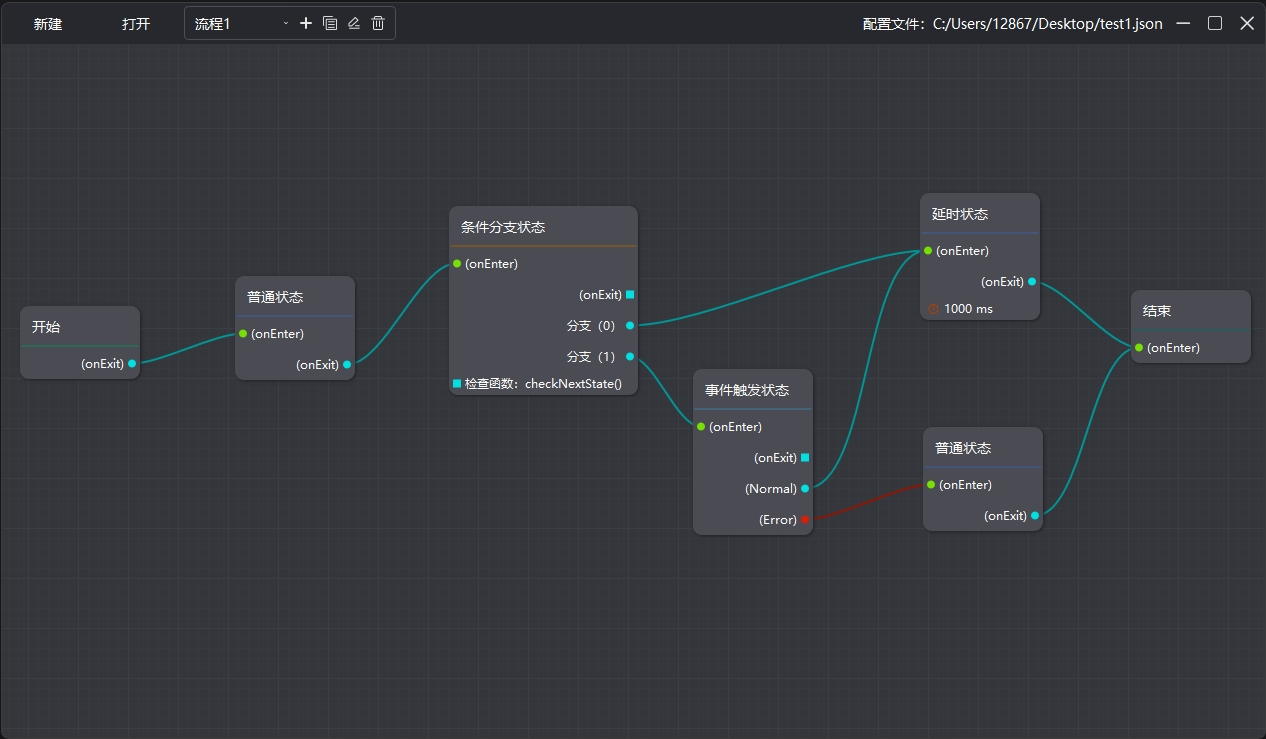
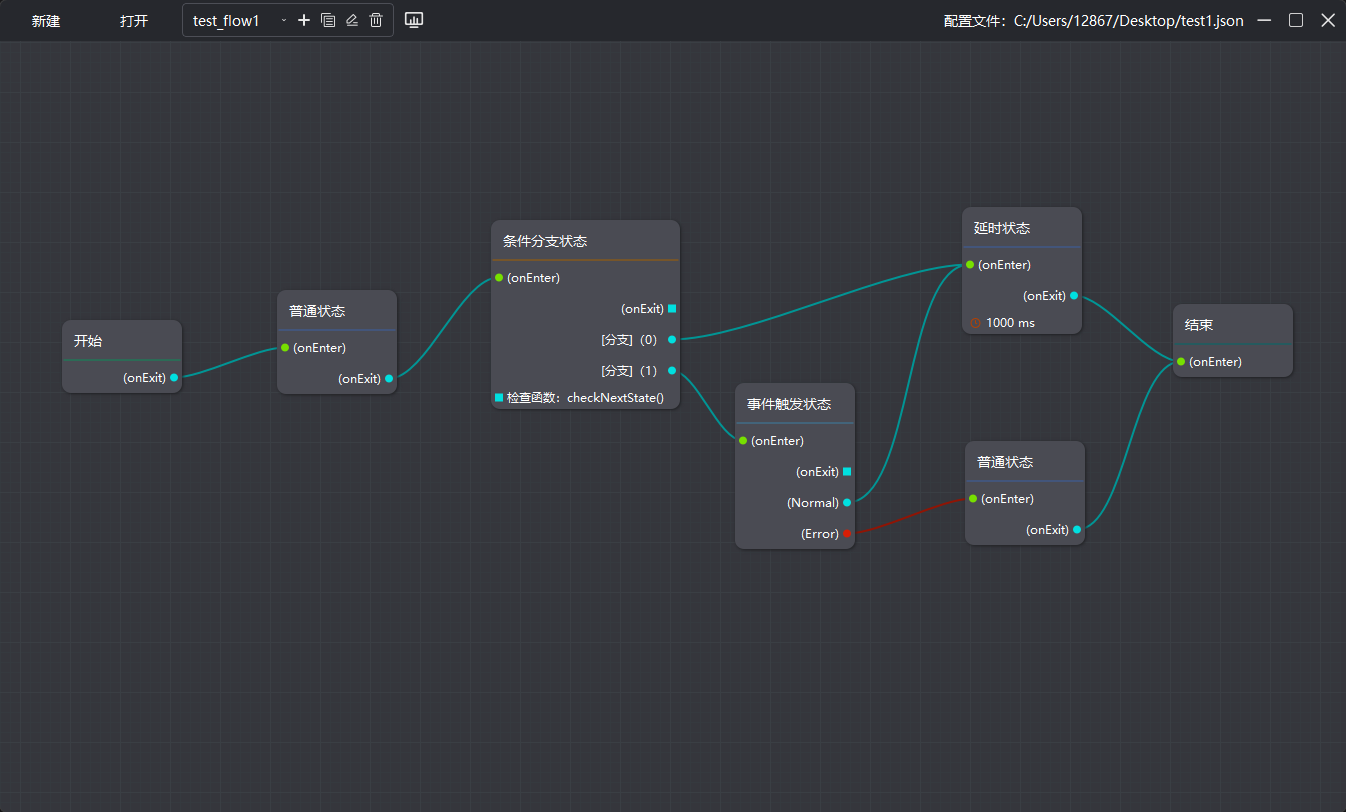
update editor doc

diff --git a/docusaurus.config.ts b/docusaurus.config.ts
@@ -76,12 +76,6 @@ const config: Config = {
           label: 'API',
         },
         {
-          type: 'docSidebar',
-          sidebarId: 'config',
-          position: 'left',
-          label: '配置文件',
-        },
-        {
           href: 'https://github.com/daonvshu/qtaskmachine',
           label: 'GitHub',
           position: 'right',

diff --git a/sidebars.ts b/sidebars.ts
@@ -17,7 +17,6 @@ const sidebars: SidebarsConfig = {
   guides: [{type: 'autogenerated', dirName: 'guides'}],
   editor: [{type: 'autogenerated', dirName: 'editor'}],
   api: [{type: 'autogenerated', dirName: 'api'}],
-  config: [{type: 'autogenerated', dirName: 'config'}],
 
   // But you can create a sidebar manually
   /*

diff --git a/docs/editor/intro.md b/docs/editor/intro.md
@@ -2,4 +2,107 @@
 sidebar_position: 1
 ---
 
-# Editor Intro
+# 简介
+
+状态机编辑器用于解决大型复杂流程的执行，分离状态机的定义和实现。编辑器专注于配置流程，而编程端专注于在每个步骤具体做的事情。
+
+## 基本原理和使用
+
+状态机编辑器使用的是 **json** 配置文件，例如下面的流程图：
+
+![Editor](/img/edit_demo.png)
+
+将生成的 **json** 配置文件放在项目的 **qrc** 资源文件中，使用`TaskMachineStepUtil`类加载并解析配置文件：
+
+```cpp
+#include <QApplication>
+#include <stateutils/taskmachinesteputil.h>
+
+int main(int argc, char* argv[]) {
+	QApplication a(argc, argv);
+
+    //...
+    TaskMachineStepUtil::stepConfig(":/test1.json");
+    //...
+
+    return a.exec();
+}
+```
+
+:::note
+
+配置文件在任何流程执行之前，只需要加载一次即可，多次加载反而可能会出错。
+
+:::
+
+在任何需要执行流程图的地方，使用`TaskMachineRunner`类执行：
+
+```cpp
+auto runner = new TaskMachineRunner("test_flow1", parent);
+if (!runner->run(context)) {
+    qCritical() << "run task test_flow1 fail!";
+    runner->deleteLater();
+}
+```
+
+其中，`TaskMachineRunner`继承至`QObject`，因此`parent`仅为传递给`QObject`用于自动内存管理。`context`（执行类）用于具体定义所有步骤需要做的事情，后续文章中会逐一说明每个状态如何对应于执行类中的函数。
+
+## 执行类的函数定义
+
+编辑器配置中的每个步骤定义了调用执行类中的哪些函数，`TaskMachineRunner`调用执行类中的函数，其基本原理是使用Qt中的信号槽和反射，因此执行类通常会定义以下几种函数提供给`TaskMachineRunner`调用：
+
+1. 属性
+
+状态进入或者退出时可以设置执行类的属性值，条件状态的判断也可以根据属性值进行判断：
+
+```cpp
+class MyClass : public QObject {
+    Q_OBJECT
+
+    Q_PROPERTY(int prop1 READ getProp1 WRITE setProp1)
+    Q_PROPERTY(int prop2 MEMBER prop2)
+
+public:
+    int getProp1() const;
+    void setProp1(int value);
+
+private:
+    int prop1;
+    int prop2;
+}
+```
+
+2. 信号和槽函数
+
+状态进入或者退出时可以调用指定槽函数，事件触发类型状态会使用信号触发状态转移：
+
+```cpp
+class MyClass : public QObject {
+    Q_OBJECT
+
+public:
+    //...
+
+signals:
+    void event1Trigger();
+
+private slots:
+    void onState1Entered();
+}
+```
+
+3. 可反射函数
+
+条件判断类型状态会通过反射调用函数：
+
+```cpp
+class MyClass : public QObject {
+    Q_OBJECT
+
+public:
+    //...
+
+private:
+    Q_INVOKABLE int testCondition1();
+}
+```

diff --git a/docs/editor/usage.md b/docs/editor/usage.md
@@ -1,0 +1,44 @@
+---
+sidebar_position: 2
+---
+
+# 基本使用
+
+## 配置文件和流程
+
+在编辑流程图前，首先创建一个新的json配置文件，或者打开现有的配置。点击标题栏 **新建** 创建新的配置文件，点击标题栏![add](https://raw.githubusercontent.com/daonvshu/qtaskmachine/refs/heads/main/editor/res/add.svg)图标向组里面添加一个新的流程，一个配置文件中有多个流程图，每个流程的编辑和运行都是独立的。
+
+通过标题栏上的按钮，可以添加、删除、编辑和复制一个流程图。
+
+![title_config](/img/title_config.png)
+
+构造`TaskMachineRunner`时，传入的名称必须和该处流程图的名称一致，为了避免编码造成无法识别，流程图的名称尽量使用英文命名。
+
+```cpp
+auto runner = new TaskMachineRunner("test_flow1", parent);
+runner->run(context);
+```
+
+## 流程图的绘制
+
+在空白处点击右键，选择并添加不同类型的状态，不同的状态有不同数量的输入和输出端口，连接状态的输出到下一个状态的输入则表示一个状态切换关系。通常情况下，输入端口可以被多个状态连接，而输出端口只能连接到一个输入端口。
+
+![menu](/img/add_menu.png)
+
+各种状态作用和核心库中的类大致上是一致的，下面是每个状态的简要说明：
+
+|状态|说明|
+|:--|:--|
+|开始状态|开始状态必须添加，且只能添加一个，流程的运行从该处开始。|
+|结束状态|用于流程的结束，或状态组的子流程结束。不是必要的，没有该状态表示不会结束。|
+|普通状态|用于流程中其中一个步骤的执行，不会等待，立即切换到下一个状态。|
+|延时状态|设定指定延时时间后切换到下一个状态。|
+|事件触发状态|等待指定信号的到来再切换到下一个状态，分为正常和异常分支，可以等待不同的信号进行切换。|
+|复合事件状态|可以设置多个分支，每个分支等待各自的信号进行状态切换。|
+|条件分支状态|可以设置多个分支，通过判断函数的结果进行判断再切换分支。|
+|子状态组|状态组的开始，该状态必须等待子状态执行完成（切换到结束状态）或触发了异常信号才能进行状态切换。|
+|恢复点|状态组异常信号触发时，切换到该状态可以恢复到子状态最后一次执行的状态。|
+
+## 状态的配置
+
+选中一个状态，右键点击**编辑**，进入到状态属性编辑页面，属性页里面的设置用来和执行类进行交互，可以设置属性或调用函数，后续文章中详细描述每个状态的属性作用。

diff --git a/docs/editor/props/base-prop.md b/docs/editor/props/base-prop.md
@@ -1,0 +1,50 @@
+---
+sidebar_position: 1
+---
+
+# 普通状态
+
+普通状态是所有状态中最基础和最直接的状态，所有状态的基础属性和普通状态一致，包括一下几个基础的设置项：状态名称、状态进入时调用、状态退出时调用、属性值应用。
+
+![common_state](/img/props/common_state.png)
+
+## 状态名称
+
+用于状态的命名，也是状态运行时的打印名称。
+
+## 状态进入时调用
+
+设置状态进入时调用的函数，为了可以通过字符串查找函数，这里必须是信号函数、槽函数或可反射的函数，例如下面的函数：
+
+```cpp
+class MyClass : public QObject {
+    Q_OBJECT
+    //...
+private slots:
+    void onState1Entered();
+}
+
+```
+
+在这里填写 `onState1Entered()` 即可。
+
+## 状态退出时调用
+
+设置状态退出时调用的函数，与进入设置的方式一样，这里也必须是信号函数、槽函数或可反射函数。
+
+:::warning
+
+需要特别注意的是，在子流程中设置退出时调用函数，不管是该流程正常切换还是子状态组遇到异常进行切换，状态退出函数都会被调用。也就是说子流程中不建议使用退出时调用函数，更好的办法是在其后连接一个新的普通流程。
+
+:::
+
+## 属性值应用
+
+点击 ![add](https://raw.githubusercontent.com/daonvshu/qtaskmachine/refs/heads/main/editor/res/add.svg) 图标，添加一个属性值的设置。
+
+|输入项|说明|
+|:--|:--|
+|进入/退出|设置状态进入还是退出时应用该属性设置|
+|key|属性的名称，必须使用`Q_PROPERTY`定义属性|
+|value|属性值|
+|属性值类型|选择支持的6种属性类型设置：int/bool/string(QString)/double/float/hex(QByteArray)|

diff --git a/docs/editor/props/event-prop.md b/docs/editor/props/event-prop.md
@@ -1,0 +1,33 @@
+---
+sidebar_position: 5
+---
+
+# 事件触发状态
+
+除了基础属性设置，还可以设置：超时时间、重试次数、重试回调函数、正常触发信号、异常触发信号。
+
+![common_state](/img/props/event_state.png)
+
+## 超时时间（可选）
+
+设置正常触发信号的等待时间，如果超时会自动切换到异常分支。如果设置0ms，则无限等待正常信号的触发，同时异常分支不必设置触发信号。
+
+## 重试次数（可选）
+
+通过设置重试次数，当超时触发异常时，将重新进入当前状态继续等待信号触发，直到重试计数达到设置值再切换到异常分支。
+
+## 重试回调函数（可选）
+
+进行重试时的通知函数，必须是信号函数、槽函数或可反射函数。
+
+## 信号函数
+
+执行类定义的信号函数，等待该信号函数触发状态切换。
+
+## 信号检查函数（可选）
+
+信号函数可以携带参数，信号检查函数是用于检查参数是否是预期的值，返回false表示忽略该信号，使用以下函数签名的可反射函数：
+
+```cpp
+Q_INVOKABLE bool function(const QVariantList& data)
+```

diff --git a/docs/editor/props/delay-prop.md b/docs/editor/props/delay-prop.md
@@ -1,0 +1,9 @@
+---
+sidebar_position: 4
+---
+
+# 延时状态
+
+除了设置基础属性，延时可以设置延时时间，单位为ms，设定的延时超时的时候进行状态切换。
+
+![common_state](/img/props/delay_state.png)

diff --git a/docs/editor/props/start-prop.md b/docs/editor/props/start-prop.md
@@ -1,0 +1,9 @@
+---
+sidebar_position: 2
+---
+
+# 开始状态
+
+开始状态仅有基础属性的设置，由于只有输出端口，这里只能设置退出时调用函数。
+
+![common_state](/img/props/start_state.png)

diff --git a/docs/editor/props/end-prop.md b/docs/editor/props/end-prop.md
@@ -1,0 +1,9 @@
+---
+sidebar_position: 3
+---
+
+# 结束状态
+
+结束状态仅有基础属性的设置，由于只有输入端口，这里只能设置进入时调用函数。
+
+![common_state](/img/props/end_state.png)

diff --git a/docs/editor/props/condition-prop.md b/docs/editor/props/condition-prop.md
@@ -1,0 +1,5 @@
+---
+sidebar_position: 7
+---
+
+# 条件分支状态

diff --git a/docs/editor/props/multi-event-prop.md b/docs/editor/props/multi-event-prop.md
@@ -1,0 +1,5 @@
+---
+sidebar_position: 6
+---
+
+# 复合事件状态

diff --git a/docs/editor/config.md b/docs/editor/config.md
@@ -1,0 +1,5 @@
+---
+sidebar_position: 5
+---
+
+# 配置文件
